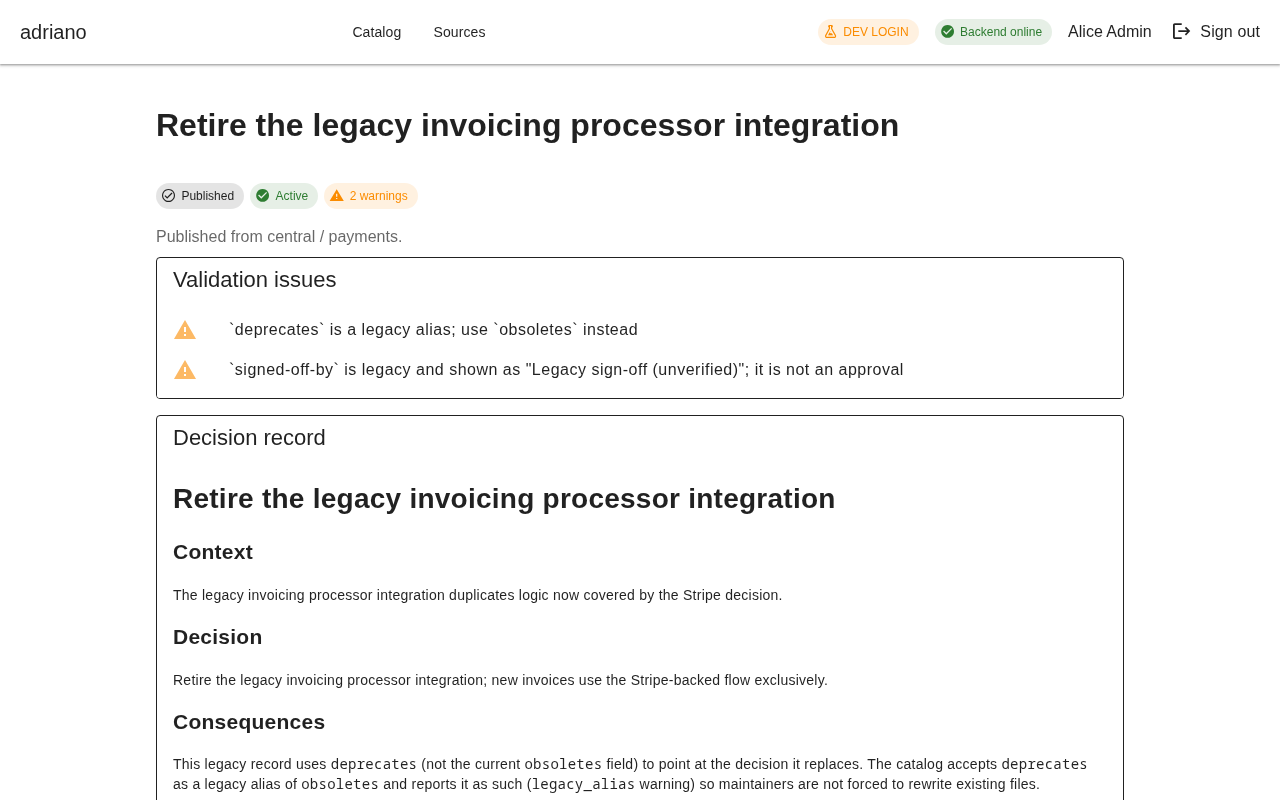
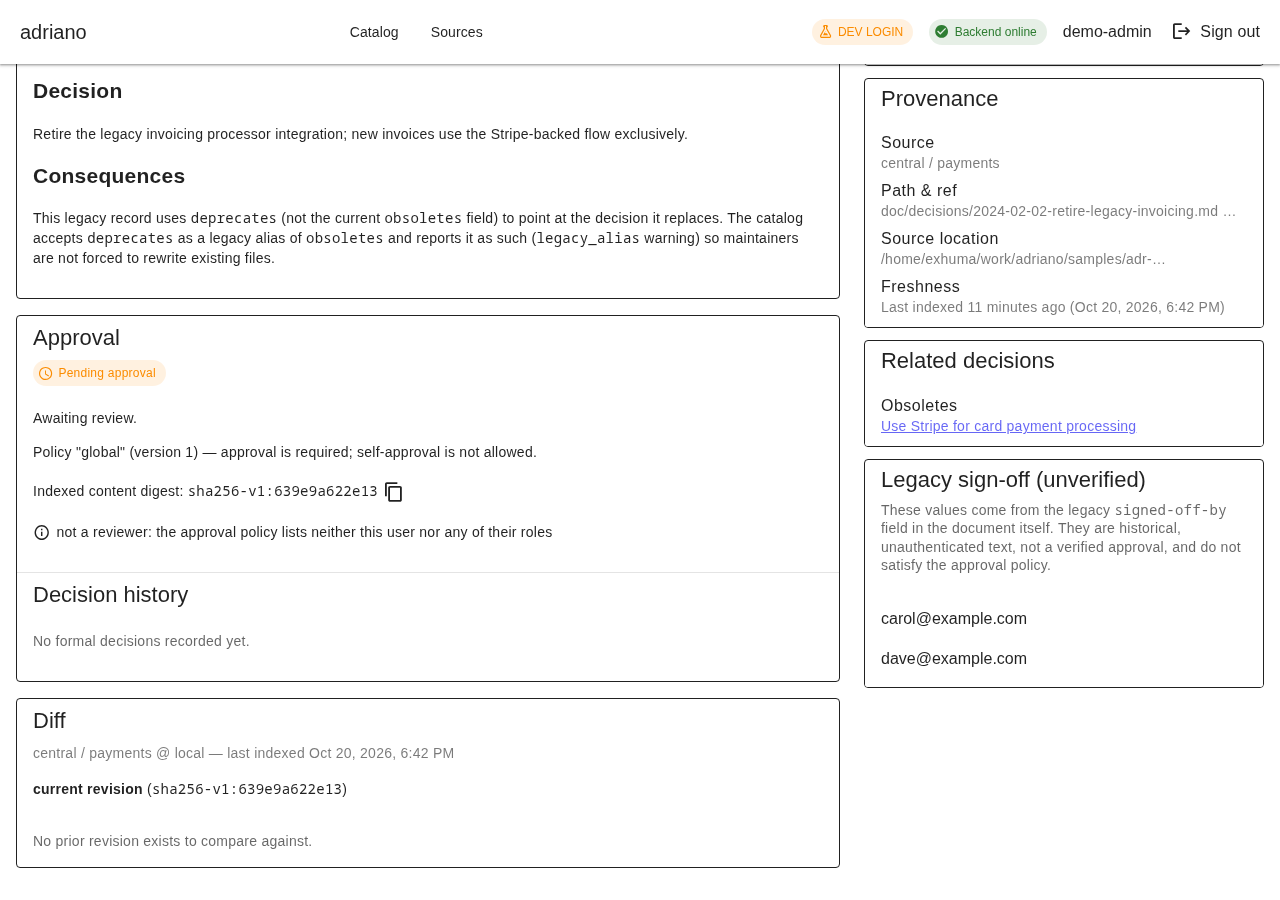
docs(demo): add errata report-to-verify walkthrough and new screenshots
Claude-Session: https://claude.ai/code/session_01FsU2WTXdSbBUzCvF7kd2fs

diff --git a/docs/demo/README.md b/docs/demo/README.md
@@ -67,6 +67,10 @@ to "Use Stripe for card payment processing".
 
 ![Legacy record: unverified sign-off, legacy alias warning, links](03-legacy-record-detail.png)
 
+(Re-shot after the Phase 10 record-page redesign below: status banners
+at the top, the document as the main column, everything else in an
+"About this decision" sidebar.)
+
 ## 4. An isolated invalid record (AC 3, 23)
 
 "Broken YAML frontmatter" has an unterminated quoted string in its
@@ -114,6 +118,21 @@ Searching for "Redis" now shows the pushed file as a distinct
 candidate row, with its branch as a chip and "Needs approval":
 
 ![Candidate visible in search after the CI push](05-candidate-after-push.png)
+
+**Pre-redesign screenshots below.** Steps 6–8, 10, 11 and 12c below
+were captured before the Phase 10 record-page redesign (status
+banners at the top, document as the main column, metadata in an
+"About this decision" sidebar; see `phases/10-ui-errata.md`) and still
+show the earlier single-column stack of cards. Reproducing them
+against the current layout would require re-running the push →
+accept → promote → edit → reject flow from a clean catalog, which this
+verification pass did not repeat; the data and interactions they
+illustrate (accept with digest confirmation, identical-content
+promotion, the diff panel, reject with confirmation, the reader's
+read-only view, the stale banner) are unchanged by Phase 10, only the
+layout chrome around them is. For an up-to-date record detail page see
+screenshot 03 above (re-shot) and the "Errata: report → verify"
+walk-through at the end of this page.
 
 ## 6. A reviewer accepts the candidate (AC 16, 22, 26)
 
@@ -262,6 +281,121 @@ closing on Escape with focus returned to that button.
 ![Search page at 390px width, collapsed app bar](13-mobile-search.png)
 
 ![The collapsed app-bar menu open, listing Catalog, Sources, backend status, and the signed-in user](13b-mobile-menu.png)
+
+## 14. Errata: report → verify (Phase 10)
+
+Phase 10 (`phases/10-ui-errata.md`) redesigned the record page
+(rfc-editor.org/info layout: status banners at the top, the document
+as the main column, metadata in an "About this decision"/"About this
+erratum" sidebar) and replaced the old `kind: erratum` + `corrects:`
+ADR shape with a dedicated erratum file format: its own frontmatter
+(`erratum-for`, `type`, `section`, `reported-by`, `date`) and a body
+split into "Original text", "Corrected text" and "Notes". An erratum
+goes through the same hash-bound accept/reject workflow as a decision,
+displayed with RFC-style vocabulary: pending = **Reported**, accepted
+= **Verified**, rejected = **Rejected**.
+
+Opening "Adopt gRPC for internal APIs" (obsoleted by a later decision,
+and the target of one published technical erratum) shows both facts as
+top banners, plus the new sidebar:
+
+![gRPC decision: obsolete banner and "has 1 erratum" banner, sidebar](p10-a-grpc-obsoleted-and-errata-banner.png)
+
+Scrolling to the errata section (`#errata`, linked from the banner)
+shows the erratum entry with its labelled, never-colour-only blocks:
+
+![Errata section: "Original text — says:" / "Corrected text — should say:"](p10-b-grpc-errata-section.png)
+
+Opening the erratum itself ("Open erratum") shows its own small page:
+an "Erratum for <decision>" banner, the erratum body, and an "About
+this erratum" sidebar:
+
+![The erratum's own page: banner, body, sidebar](p10-c-erratum-page.png)
+
+The same shape also covers **editorial** errata: "Use Stripe for card
+payment processing" carries a wording-only correction reported against
+its "Decision" section:
+
+![Stripe decision with its editorial erratum](p10-d-stripe-decision-erratum.png)
+
+An erratum candidate can be pushed from a branch exactly like a
+decision candidate, through the same push intake:
+
+```text
+$ export ADRIANO_PUSH_TOKEN_CENTRAL=<redacted>
+$ export ADRIANO_API_BASE_URL=http://localhost:8180
+
+$ samples/push-candidate.sh \
+    samples/candidates/2026-02-01-erratum-ledger-snapshot-cadence.md \
+    payments feature/erratum-ledger-snapshot-cadence central "" \
+    doc/decisions/errata/2026-02-01-erratum-ledger-snapshot-cadence.md
+PUT http://localhost:8180/api/v1/candidates (source=central project=payments ref=feature/erratum-ledger-snapshot-cadence uuid=201eeb83-8117-43c2-b429-aba67ee26f90)
+{"record_id":"d8d8ffe9-...","digest":"sha256-v1:30862be7475a...","created":false,"updated":false,"deduplicated":false,"issues":[],"catalog_path":"/records/d8d8ffe9-..."}
+```
+
+Before any decision is recorded, the target decision ("Adopt event
+sourcing for the ledger service") shows the proposed erratum as its
+own banner and its own group in the errata section, clearly separated
+from published errata:
+
+![Event-sourcing decision: "1 proposed erratum" banner](p10-e1-event-sourcing-proposed-banner.png)
+
+![Event-sourcing decision: "Proposed errata" group in the errata section](p10-e2-event-sourcing-proposed-errata-group.png)
+
+Signed in as a reviewer (role `adr-reviewer`), opening the erratum
+candidate's own page offers "Verify erratum" / "Reject erratum"
+(the same accept/reject dialog, RFC wording). Verifying asks for the
+same exact-digest confirmation as a decision:
+
+![Verify-erratum confirmation dialog, with the exact digest](p10-f1-verify-erratum-dialog.png)
+
+After confirming, the erratum records a "Verified — candidate" history
+entry, demonstrated here by the explanation sentence beneath the
+status chip ("This erratum was verified for this exact content.") and
+a confirmation snackbar; see "UI bugs found" below for a wording
+inconsistency observed in this exact screenshot:
+
+![Erratum candidate after verifying](p10-f2-verified-result.png)
+
+Search gained a **"Show"** filter (Decisions / Errata / Both, synced
+to the URL as `record_type`) next to the Published/Candidate toggle.
+Selecting "Errata" lists every erratum, published or candidate, each
+with an "Erratum for &lt;decision&gt;" line:
+
+![Search with Show=Errata: erratum rows](p10-g-search-show-errata.png)
+
+At a 390px mobile viewport the same gRPC decision page keeps the
+sidebar below the main column (not beside it) with no horizontal
+scrolling:
+
+![gRPC decision page at 390px width: sidebar stacked below the document](p10-h-mobile-390-grpc-decision.png)
+
+### UI bug found during this verification (not fixed; reported only)
+
+On an erratum's **own** detail page, the "Approval" card's status chip
+and the sidebar's approval-summary chip both use the generic
+decision vocabulary ("Pending approval" / "Accepted — candidate" /
+"Accepted — published") via `approvalStateLabel()`
+(`frontend/src/components/ApprovalCard.vue:100` and
+`frontend/src/components/record/RecordSidebar.vue:68`), while the
+explanation sentence directly beneath the chip on the same card
+correctly switches to the RFC "report/verify/reject" vocabulary via
+`approvalStateExplanation(..., recordKind)` (e.g. "This erratum is
+reported and awaits verification." / "This erratum was verified for
+this exact content."). A dedicated `erratumStatusLabel()` helper
+already exists in `frontend/src/utils/labels.ts` and is used
+correctly for the same erratum when it is listed on its *target*
+decision's errata section (`ErratumEntry.vue`, showing "Reported" /
+"Verified" / "Rejected" there) — but `ApprovalCard.vue` and
+`RecordSidebar.vue` never call it, even though both already receive
+`recordKind` as a prop (used there for the "Verify erratum"/"Reject
+erratum" button labels and the sidebar heading). Repro: open any
+erratum's own page (e.g. the gRPC erratum,
+`/records/2d4988c9-ab30-4105-ac2b-073e3fdb9070`, or the "ledger
+snapshot cadence" candidate used above) and compare the status chip's
+text ("Pending approval") against the sentence below it ("This
+erratum is reported and awaits verification.") — visible in
+`p10-c-erratum-page.png` and `p10-f2-verified-result.png` above.
 
 ## Known limitations observed during this walk-through
 
